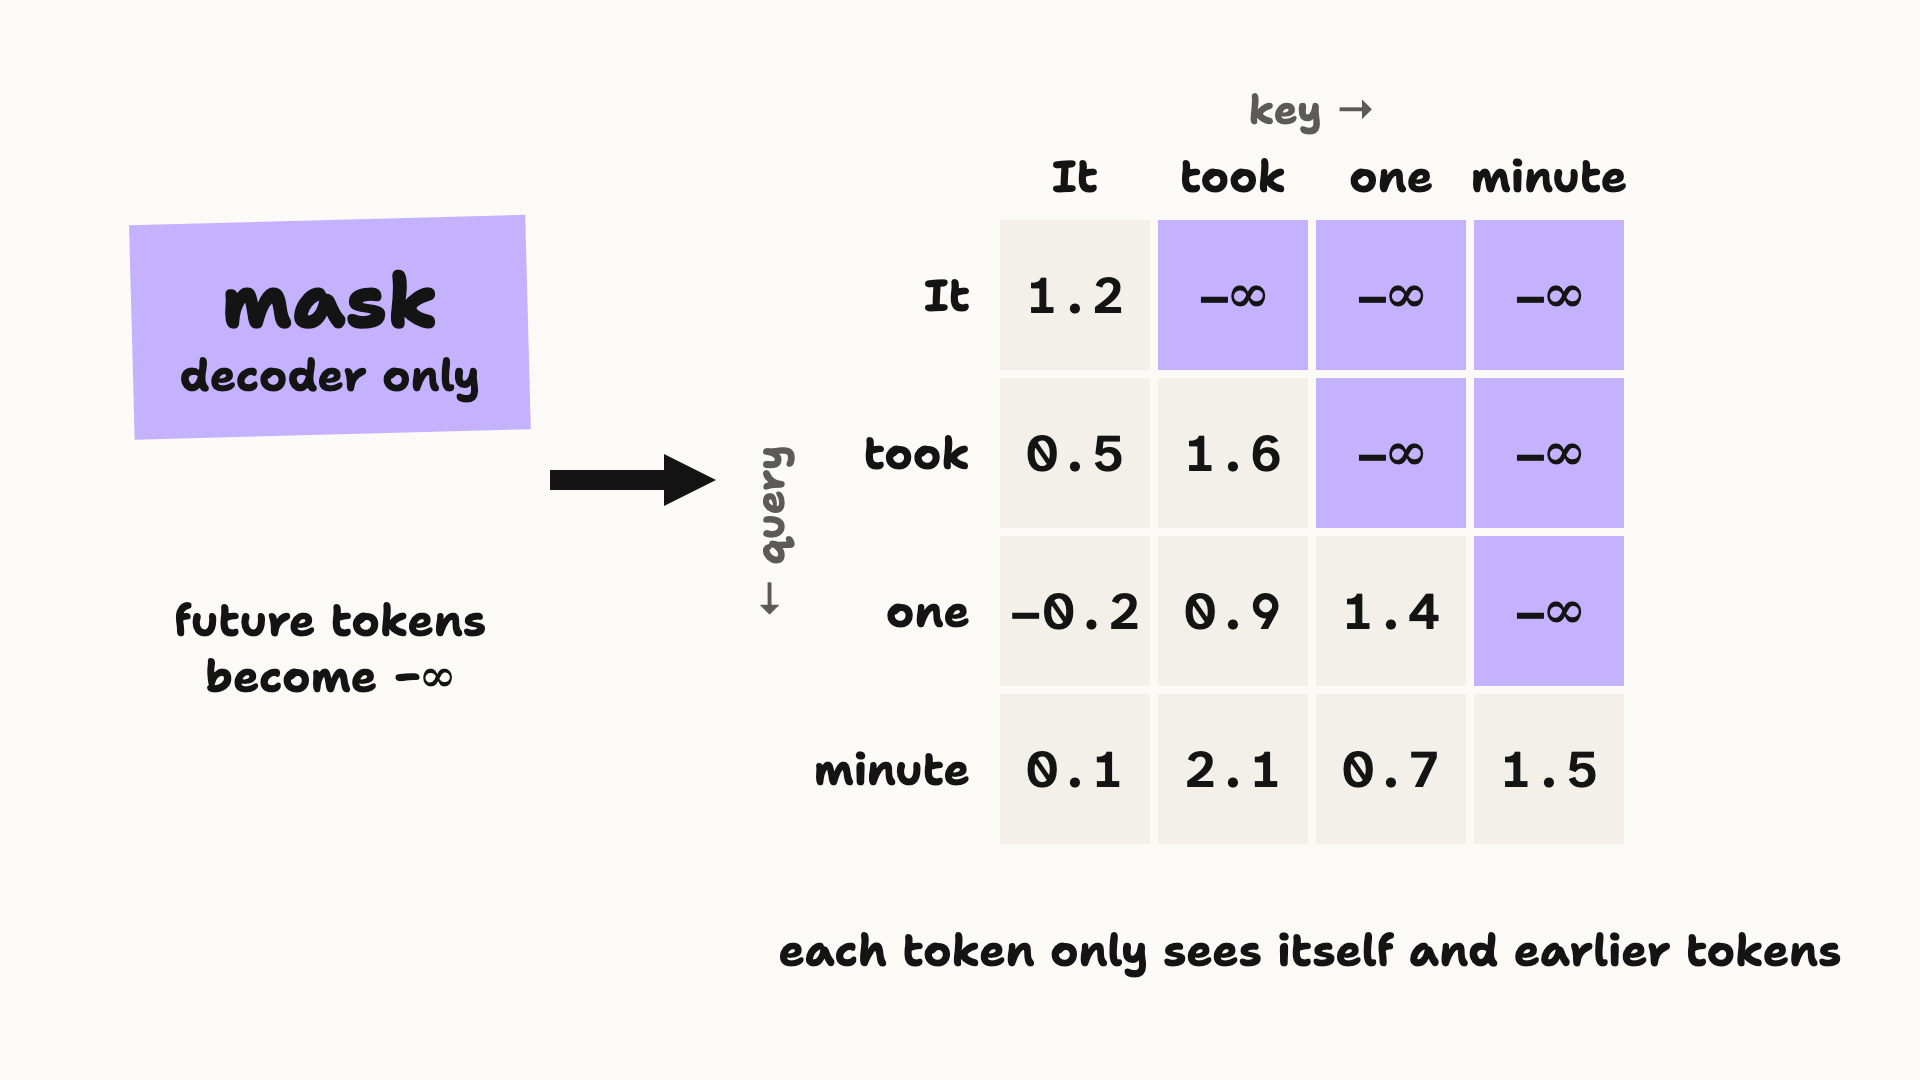
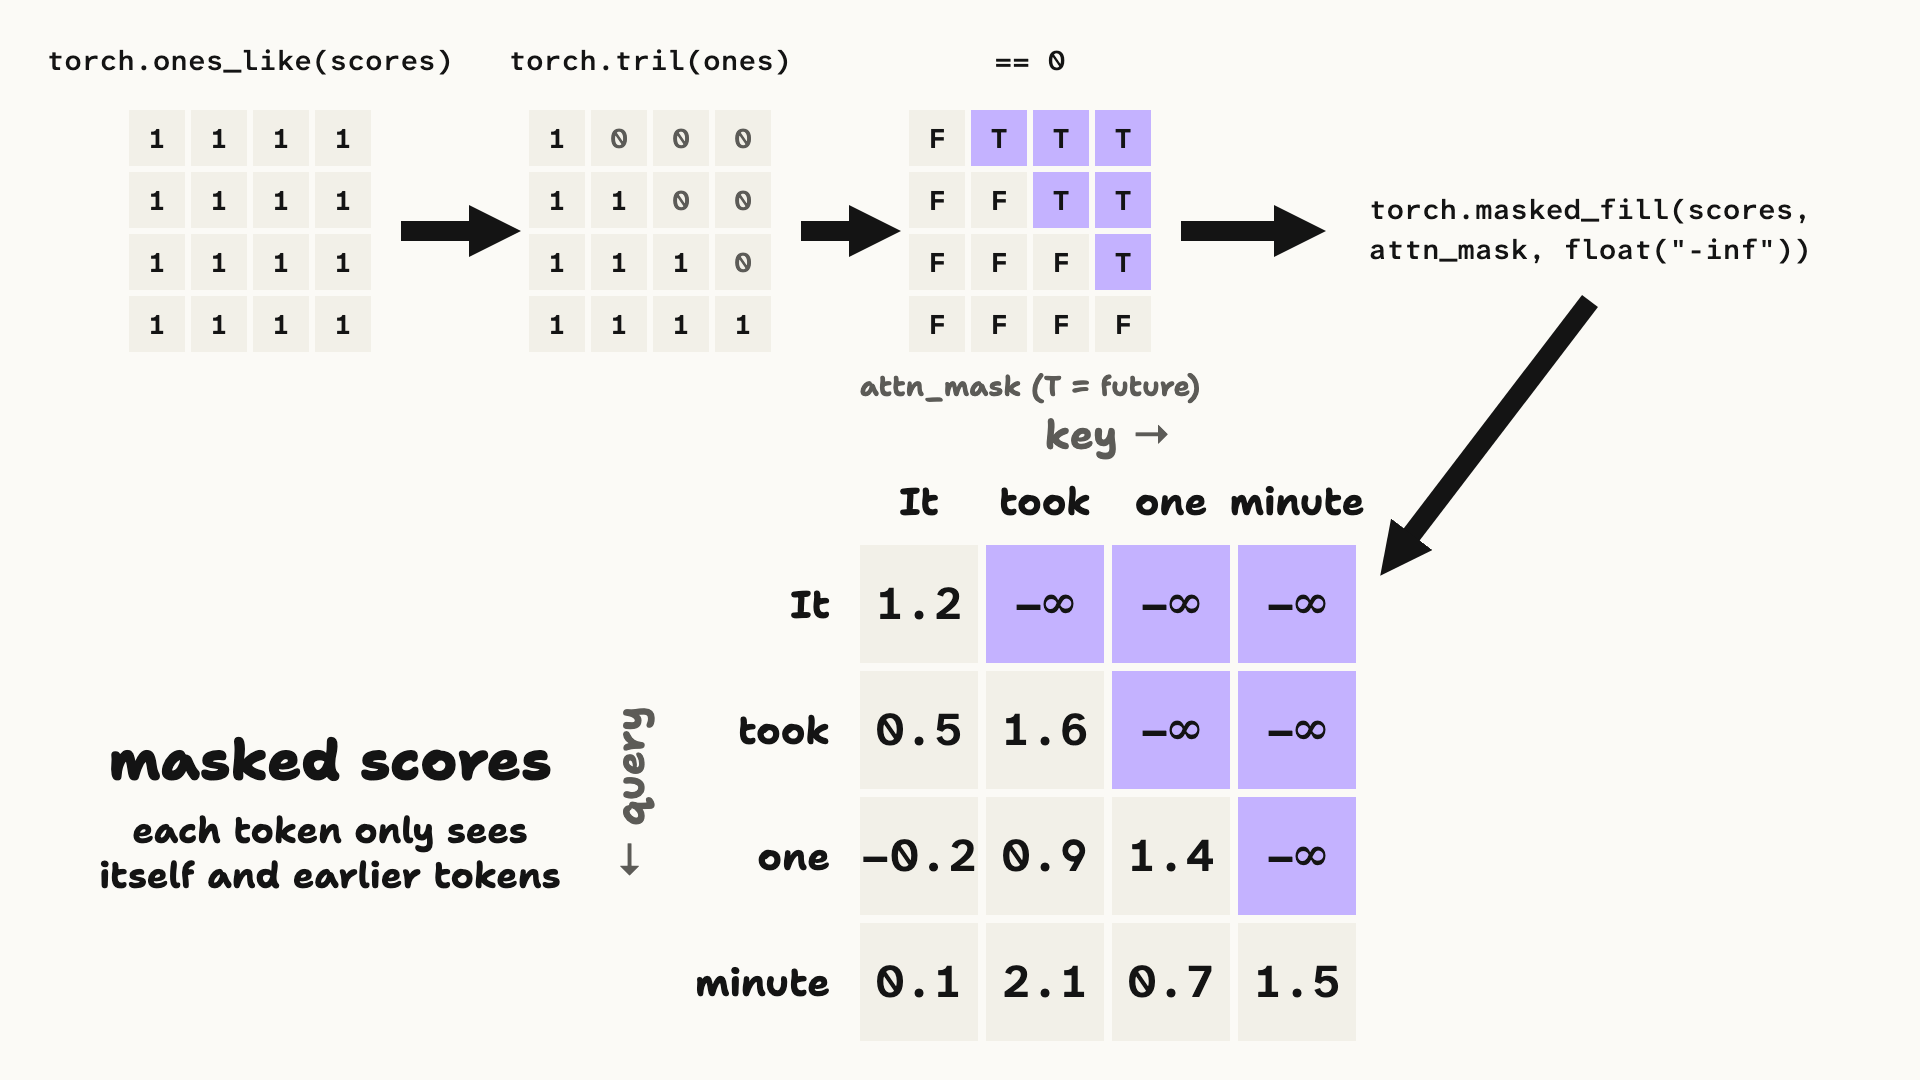
Show how the Self-Attention causal mask is built
Redraw step 3 as the code's pipeline (ones_like, tril, == 0, masked_fill)
above the full-size masked scores, explain the tril name, add a note on why
self-scores are not automatically the largest, and move the enrichment
sentence to open the weighted-sum paragraph.

diff --git a/notes/permanent/self-attention.md b/notes/permanent/self-attention.md
@@ -26,9 +26,9 @@ and
 
 > "The size was **minute**."
 
-The word **minute** means very different things in each sentence - it's literally a different word, pronounced MIN-it and my-NOOT (English is weird like that), yet both use the same token and therefore the same embedding. The context of the words "took" and "size" tells us which version of minute we're using - whether it relates to time or size, respectively. We want a way to enrich each token representation with information about important surrounding tokens.
+The word **minute** means very different things in each sentence - it's literally a different word, pronounced MIN-it and my-NOOT (English is weird like that), yet both use the same token and therefore the same embedding. The context of the words "took" and "size" tells us which version of minute we're using - whether it relates to time or size, respectively.
 
-We could simply take a weighted sum of all the surrounding tokens. However, how do we compute the weights? Could we use a neural network to calculate the weights for each other token in the sequence to get the most useful average representation? That's exactly what self-attention does.
+With that in mind, we need more than one embedding per token: we need to enrich each token's representation with information from the important tokens around it. We could simply take a weighted sum of all the surrounding tokens. However, how do we compute the weights? Could we use a neural network to calculate the weights for each other token in the sequence to get the most useful average representation? That's exactly what self-attention does.
 
 Self-attention uses two learned projections, called the "queries" and "keys" - or, as I argue shortly, `proj1` and `proj2` - to score every token against every other token. Then, a softmax converts the scores to weights. A third projection, the values (or `proj_final`), gives the vectors that are combined using those weights. All the weights in the attention module are learned alongside the rest of the network.
 
@@ -88,14 +88,14 @@ In the code, `transpose(2, 1)` swaps the last two dimensions of key (tokens and 
 
 In the decoder part of the Transformer, and in decoder-only models like GPT, the model must not "see" future tokens: when predicting the next token, it can only rely on the tokens before it. To achieve this, we mask the scores before applying the softmax. The mask sets the scores for future tokens to negative infinity (-inf), which become zeros after the softmax, blocking any information flow from future tokens.
 
-We can use the [tril](https://pytorch.org/docs/stable/generated/torch.tril.html) function to create a lower-triangular matrix of ones, covering each token and the tokens before it. Comparing it with `== 0` gives a mask where `True` marks the future positions, then [masked_fill](https://pytorch.org/docs/stable/generated/torch.Tensor.masked_fill.html) replaces those positions with `float("-inf")`.
+We can use the [tril](https://pytorch.org/docs/stable/generated/torch.tril.html) function (short for "triangle, lower") to create a lower-triangular matrix of ones, covering each token and the tokens before it. Comparing it with `== 0` gives a mask where `True` marks the future positions, then [masked_fill](https://pytorch.org/docs/stable/generated/torch.Tensor.masked_fill.html) replaces those positions with `float("-inf")`.
 
 ```python {run=false}
 attn_mask = torch.tril(torch.ones(*scores.shape)) == 0
 scores = torch.masked_fill(scores, attn_mask, float("-inf"))
 ```
 
-[![In the decoder, every score above the diagonal of the table is replaced with negative infinity, so each token only sees itself and earlier tokens.](../_media/self-attention/self-attention-step-3.png)](../_media/self-attention/self-attention-step-3.png)
+[![How the mask is built: torch.ones_like(scores) gives a four by four matrix of ones; torch.tril keeps the ones on and below the diagonal and sets the rest to 0; comparing with == 0 gives attn_mask, which is True for every future position above the diagonal. torch.masked_fill(scores, attn_mask, float("-inf")) then replaces those positions in the scores with negative infinity, so each token only sees itself and earlier tokens.](../_media/self-attention/self-attention-step-3.png)](../_media/self-attention/self-attention-step-3.png)
 
 ### 4. Compute Softmax to convert scores into weights
 
@@ -104,6 +104,9 @@ Next, softmax converts each row of scores into weights between 0 and 1 that sum 
 ```python {run=false}
 weights = softmax(scores, dim=-1)
 ```
+
+> [!note]
+> A token's score against itself isn't automatically the highest: query and key are different projections, so in our example **minute** gives "took" more weight than itself. The first row is 1 only because "It" has no earlier tokens to attend to.
 
 [![Softmax turns each row of scores into weights that add up to 1. The masked positions become 0, and the minute row becomes 0.07, 0.52, 0.13 and 0.28.](../_media/self-attention/self-attention-step-4.png)](../_media/self-attention/self-attention-step-4.png)
 
